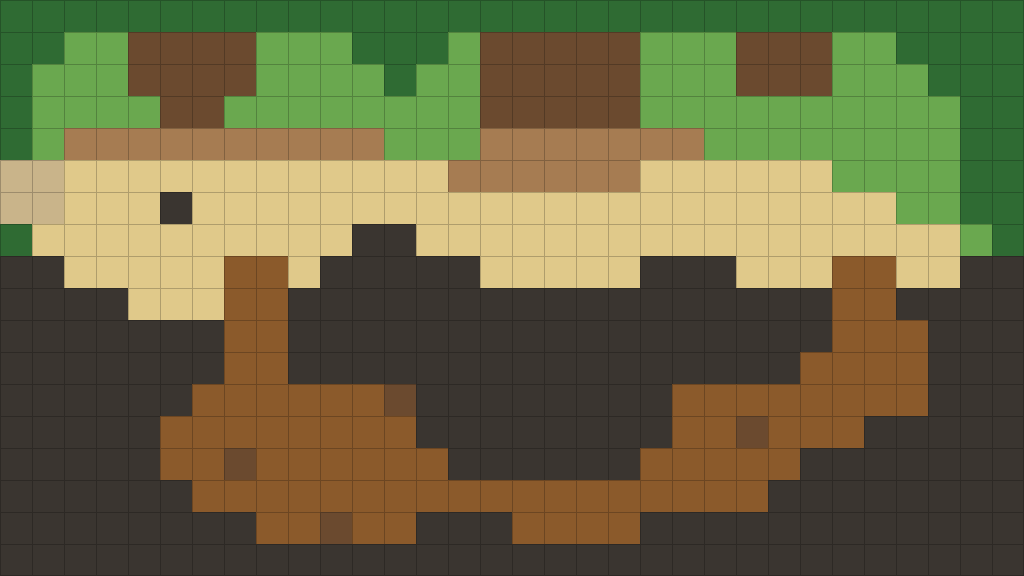
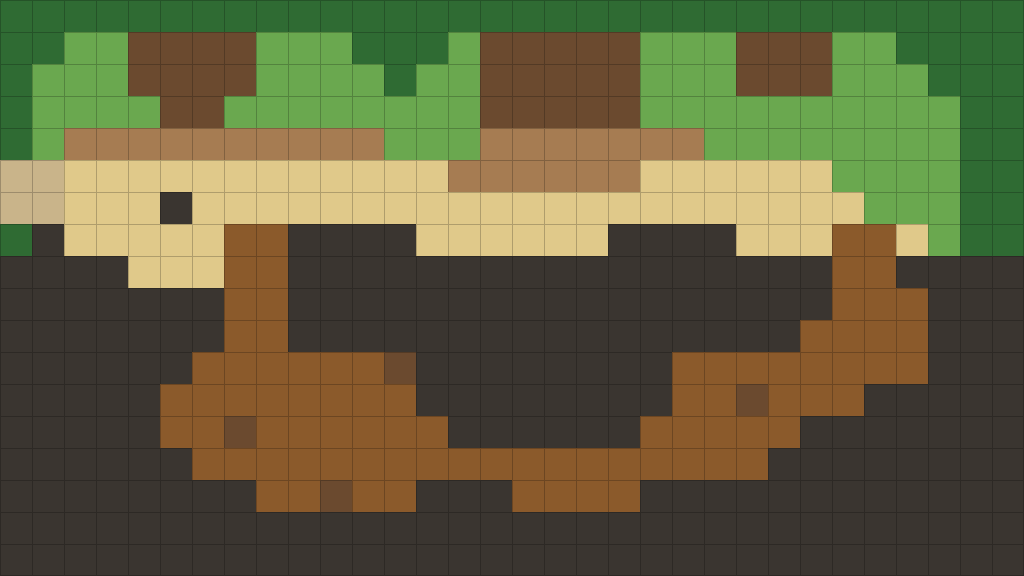
Saltstep market blockout v2: thinner quay, pole walk in the entry view, real view size in the guide
The quay is two rows deep, the pole walk roots at row 7 and an arrival shot
frames the first view lower. The guide's explore view is corrected to about
10 by 5 cells, measured at 1180 by 820.

Claude-Session: https://claude.ai/code/session_01QXJgHGK8M2MZwVwG7grNUT

diff --git a/src/content/regions/saltstepEmberwatch/maps.ts b/src/content/regions/saltstepEmberwatch/maps.ts
@@ -93,12 +93,12 @@ export const SALTSTEP_MARKET: MapDef = {
    * GREY BLOCKOUT (stage 3 of `docs/level-design.md`; the brief is `docs/places/saltstep_market.md`). The market is
    * out on the water. The town's backs run off the top edge (`U`), with three buildings of different sizes (`B`): an
    * L-shaped house to the west, Jin's freight office in the middle (x 15-19) and a small house to the east. A dirt
-   * shore lane (rows 4-5) runs under them. The sand quay (rows 5-8) takes the coast road in at its west end (rows
+   * shore lane (rows 4-5) runs under them. The sand quay (rows 5-6, two rows deep) takes the coast road in at its west end (rows
    * 5-6); the one blocked cell on it (`n`, 5,6) is the bowl stall's body, where the cart stops. The pole walk (x 7-8,
-   * rows 8-11) runs out to the west platform; the platforms ring a basin (x 13-20, rows 12-14) and the south walk
-   * (row 15) closes the loop, its cells at x 15-16 being the plank bridge the boats pass under. The east platform
+   * rows 7-10) runs out to the west platform; the platforms ring a basin (x 13-20, rows 11-13) and the south walk
+   * (row 14) closes the loop, its cells at x 15-16 being the plank bridge the boats pass under. The east platform
    * joins the ferry jetty (x 25-28) back to the shore. `k` cells are rack and stall bodies on the platforms, and the
-   * side jetty (x 16-19, row 16) looks out toward the freight pontoon. Every blocked cell comes from the brief's plan;
+   * side jetty (x 16-19, row 15) looks out toward the freight pontoon. Every blocked cell comes from the brief's plan;
    * none is there for scatter. The rim is walkable only at the coast road's mouth.
    */
   rows: [
@@ -108,9 +108,8 @@ export const SALTSTEP_MARKET: MapDef = {
     'U,,,,BB,,,,,,,,BBBBB,,,,,,,,,,UU',
     'U,..........,,,.......,,,,,,,,UU',
     '==::::::::::::......::::::,,,,UU',
-    '==:::n::::::::::::::::::::::,,UU',
-    'U::::::::::WW:::::::::::::::::,U',
-    'WW:::::ww:WWWWW:::::WWW:::ww::WW',
+    '==:::n:::::::::::::::::::::,,,UU',
+    'UW:::::wwWWWW::::::WWWW:::ww:,UU',
     'WWWW:::wwWWWWWWWWWWWWWWWWWwwWWWW',
     'WWWWWWWwwWWWWWWWWWWWWWWWWWwwwWWW',
     'WWWWWWWwwWWWWWWWWWWWWWWWWwwwwWWW',
@@ -119,6 +118,7 @@ export const SALTSTEP_MARKET: MapDef = {
     'WWWWWwwkwwwwwwWWWWWWwwwwwWWWWWWW',
     'WWWWWWwwwwwwwwwwwwwwwwwwWWWWWWWW',
     'WWWWWWWWwwkwwWWWwwwwWWWWWWWWWWWW',
+    'WWWWWWWWWWWWWWWWWWWWWWWWWWWWWWWW',
     'WWWWWWWWWWWWWWWWWWWWWWWWWWWWWWWW',
   ],
   // West of the coast-road crossing (column 3), so a fresh arrival still walks through it.
@@ -131,6 +131,14 @@ export const SALTSTEP_MARKET: MapDef = {
     { x: 2, y: 4 },
   ],
   objective: 'Stop at the bowl stall on the quay.',
+  // The first framing sits lower than the party, so the pole walk's root and the water beyond it are in the entry
+  // view (the brief's entry view; blockout v1 missed it). 4.5 rows keeps the normal explore zoom on an iPad.
+  arrivalShot: {
+    at: { x: 1, y: 5 },
+    unlessVisited: 'mq02_saltstep_arrival',
+    rows: 4.5,
+    centreY: 6.6,
+  },
   props: [],
   exits: [
     {
@@ -154,7 +162,7 @@ export const SALTSTEP_MARKET: MapDef = {
       when: { kind: 'not', of: ARRIVED },
       once: true,
       // The whole walkable column, so no route east from the coast road slips past it.
-      area: [1, 2, 3, 4, 5, 6, 7, 8].map((y) => ({ x: 3, y })),
+      area: [1, 2, 3, 4, 5, 6, 7].map((y) => ({ x: 3, y })),
     },
   ],
   npcs: [
@@ -173,7 +181,7 @@ export const SALTSTEP_MARKET: MapDef = {
     {
       id: 'mq02_tavi',
       name: 'Tavi Ren',
-      pos: { x: 27, y: 10 },
+      pos: { x: 27, y: 9 },
       sprite: SPRITE.tavi,
       node: 'mq02_tavi',
       // Scene 2.9: once the complaint has started, the ferry goes.
@@ -194,7 +202,7 @@ export const SALTSTEP_MARKET: MapDef = {
     {
       id: 'mq02_miri_crates',
       name: 'Lantern crates',
-      pos: { x: 25, y: 11 },
+      pos: { x: 25, y: 10 },
       sprite: SPRITE.crates,
       node: 'mq02_miri_crates',
       // Kaya's opening (the slice's first exchange only): the crates are her sister's shop's.
@@ -205,7 +213,7 @@ export const SALTSTEP_MARKET: MapDef = {
       // needs it). Afterwards the clerk is busy with the packet, and the stall is not shown.
       id: 'mq02_customs_clerk',
       name: 'Customs clerk',
-      pos: { x: 12, y: 13 },
+      pos: { x: 12, y: 12 },
       sprite: SPRITE.customsClerk,
       node: 'mq02_stall_drifts',
       when: {

diff --git a/docs/art/prompts/maps/saltstep_market.md b/docs/art/prompts/maps/saltstep_market.md
@@ -19,12 +19,12 @@ Saltstep, a market town built out over a grey bay.
 32 columns by 18 rows, counted from 0 at the top-left corner. The painting is the ground and what stands on it, nothing else: the game draws its own grid, movement contours, units, props and effects over it, so every edge in the painting that matters to the rules sits exactly on a tile edge.
 
 - Road (4 tiles): a 2×2 block at columns 0–1, rows 5–6 (middle left).
-- Trees (58 tiles): 57 tiles (top centre), row 0: columns 0–31; row 1: columns 0–1, 11–13 and 28–31; row 2: columns 0, 12 and 29–31; rows 3–4: columns 0 and 30–31; rows 5–6: columns 30–31; row 7: column 31; one tile at column 0, row 7 (middle left).
-- Timber walls (35 tiles): a 5×3 block at columns 15–19, rows 1–3 (top centre); 10 tiles (top left), rows 1–2: columns 4–7; row 3: columns 5–6; a 3×2 block at columns 23–25, rows 1–2 (top right); one tile at column 12, row 12 (bottom centre); one tile at column 23, row 13 (bottom right); one tile at column 7, row 14 (bottom left); one tile at column 10, row 16 (bottom left).
-- Stone walls (215 tiles): 132 tiles (bottom centre), row 8: columns 0–1 and 30–31; row 9: columns 0–3 and 28–31; rows 10–11: columns 0–6 and 29–31; row 12: columns 0–5 and 29–31; row 13: columns 0–4 and 27–31; row 14: columns 0–4 and 25–31; row 15: columns 0–5 and 24–31; row 16: columns 0–7, 13–15 and 20–31; row 17: columns 0–31; 82 tiles (the centre), row 7: columns 11–12; row 8: columns 10–14 and 20–22; rows 9–10: columns 9–25; row 11: columns 9–24; rows 12–13: columns 13–20; row 14: columns 14–19; one tile at column 5, row 6 (middle left).
-- Sand (89 tiles): 89 tiles (the centre), row 5: columns 2–13 and 20–25; row 6: columns 2–4 and 6–27; row 7: columns 1–10 and 13–29; row 8: columns 2–6, 9, 15–19, 23–25 and 28–29; row 9: columns 4–6.
-- Plank floors (85 tiles): 85 tiles (bottom centre), rows 8–9: columns 7–8 and 26–27; row 10: columns 7–8 and 26–28; row 11: columns 7–8 and 25–28; row 12: columns 6–11 and 21–28; row 13: columns 5–12, 21–22 and 24–26; row 14: columns 5–6, 8–13 and 20–24; row 15: columns 6–23; row 16: columns 8–9, 11–12 and 16–19.
-- Open ground everywhere else: grass (67 tiles), bare earth (23 tiles).
+- Trees (59 tiles): 58 tiles (top centre), row 0: columns 0–31; row 1: columns 0–1, 11–13 and 28–31; row 2: columns 0, 12 and 29–31; rows 3–4: columns 0 and 30–31; rows 5–7: columns 30–31; one tile at column 0, row 7 (middle left).
+- Timber walls (35 tiles): a 5×3 block at columns 15–19, rows 1–3 (top centre); 10 tiles (top left), rows 1–2: columns 4–7; row 3: columns 5–6; a 3×2 block at columns 23–25, rows 1–2 (top right); one tile at column 12, row 11 (the centre); one tile at column 23, row 12 (bottom right); one tile at column 7, row 13 (bottom left); one tile at column 10, row 15 (bottom left).
+- Stone walls (242 tiles): 161 tiles (bottom centre), row 7: column 1; row 8: columns 0–3 and 28–31; rows 9–10: columns 0–6 and 29–31; row 11: columns 0–5 and 29–31; row 12: columns 0–4 and 27–31; row 13: columns 0–4 and 25–31; row 14: columns 0–5 and 24–31; row 15: columns 0–7, 13–15 and 20–31; rows 16–17: columns 0–31; 80 tiles (the centre), row 7: columns 9–12 and 19–22; rows 8–9: columns 9–25; row 10: columns 9–24; rows 11–12: columns 13–20; row 13: columns 14–19; one tile at column 5, row 6 (middle left).
+- Sand (60 tiles): 59 tiles (the centre), row 5: columns 2–13 and 20–25; row 6: columns 2–4 and 6–26; row 7: columns 2–6, 13–18 and 23–25; row 8: columns 4–6; one tile at column 28, row 7 (middle right).
+- Plank floors (85 tiles): 85 tiles (the centre), rows 7–8: columns 7–8 and 26–27; row 9: columns 7–8 and 26–28; row 10: columns 7–8 and 25–28; row 11: columns 6–11 and 21–28; row 12: columns 5–12, 21–22 and 24–26; row 13: columns 5–6, 8–13 and 20–24; row 14: columns 6–23; row 15: columns 8–9, 11–12 and 16–19.
+- Open ground everywhere else: grass (68 tiles), bare earth (23 tiles).
 - The party enters from the left, standing at (1, 5), (1, 6), (2, 5), (2, 6), (1, 4), (2, 4); enemies come from the right. Paint nothing there that would read as an object to walk round.
 
 The rows as the rules read them:
@@ -36,9 +36,8 @@ U,,,BBBB,,,,U,,BBBBB,,,BBB,,,UUU
 U,,,,BB,,,,,,,,BBBBB,,,,,,,,,,UU
 U,..........,,,.......,,,,,,,,UU
 ==::::::::::::......::::::,,,,UU
-==:::n::::::::::::::::::::::,,UU
-U::::::::::WW:::::::::::::::::,U
-WW:::::ww:WWWWW:::::WWW:::ww::WW
+==:::n:::::::::::::::::::::,,,UU
+UW:::::wwWWWW::::::WWWW:::ww:,UU
 WWWW:::wwWWWWWWWWWWWWWWWWWwwWWWW
 WWWWWWWwwWWWWWWWWWWWWWWWWWwwwWWW
 WWWWWWWwwWWWWWWWWWWWWWWWWwwwwWWW
@@ -47,6 +46,7 @@ WWWWWwwwwwwwwWWWWWWWWwwkwwwWWWWW
 WWWWWwwkwwwwwwWWWWWWwwwwwWWWWWWW
 WWWWWWwwwwwwwwwwwwwwwwwwWWWWWWWW
 WWWWWWWWwwkwwWWWwwwwWWWWWWWWWWWW
+WWWWWWWWWWWWWWWWWWWWWWWWWWWWWWWW
 WWWWWWWWWWWWWWWWWWWWWWWWWWWWWWWW
 ```
 

diff --git a/docs/level-design.md b/docs/level-design.md
@@ -52,21 +52,22 @@ answer for later states on a baked board.
 | Character                    | 48 px canvas, 8 directions                                                         |
 | Terrain                      | 32 px Wang tiles, per-pixel edges                                                  |
 | Explore zoom                 | 120 CSS px a cell (80 on a viewport under 540 px wide), snapped to integer zoom    |
-| **One explore view (iPad)**  | about 8.5 to 11.5 cells wide by 6.5 to 8.5 high, before the header and dock        |
+| **One explore view (iPad)**  | about 10 cells wide by 5 high once the header, objective box and dock are counted  |
 | Combat zoom                  | 80 CSS px a cell: about 13 to 17 by 10 to 13 cells, so a 20x12 board scrolls a bit |
 | Map size allowed             | 4 to 64 cells a side                                                               |
 | Today's maps                 | explore 24x16 (the riverside 36x24); combat 20x12 or 19x12                         |
 | Light                        | upper left; shadow `#322125`; cast to the lower right, 12 to 24 px                 |
 | Per-region limits (ADR 0111) | boards 1.5 MiB, JS chunk 40 KB gz; size budgets may be raised with an ADR note     |
 
-**Use 10 by 7 cells as "one view"** for every rule in the core that says "per view". A 24x16 map is therefore
-about five views, and each needs its own idea and landmark.
+**Use 10 by 5 cells as "one view"** for every rule in the core that says "per view". A 24x16 map is therefore
+about seven to eight views, and a 32x18 map about eleven; each needs its own idea and landmark.
 
-The view size is computed from `exploreTilePx` (`src/render/projection.ts`) and typical iPad viewports; it is not
-yet written down or tested anywhere. Measure it on the device before relying on it.
+Measured on the Saltstep blockout (2026-11-17) at an iPad landscape viewport of 1180 by 820: the map shows about
+10 by 4.7 cells. The HUD takes about a third of the screen height, so vertical composition is tight: lay out
+routes mostly east-west, or revisit the explore zoom (an owner question). No test holds this number yet.
 
 **Going bigger.** The owner is fine with bigger places. Do it by adding views that each have an idea (core L16,
-L17), not by stretching a plan. A town of six to nine views (about 30x21 to 40x28) is a reasonable step. Past
+L17), not by stretching a plan. A town of ten to sixteen views (about 30x18 to 40x20) is a reasonable step. Past
 that, split into districts joined by a pinch point (a gate, a bridge, a stair) or into two maps. Before growing a
 board: run the perf bench (`scripts/perf/core-bench.test.ts`, pinned to the largest board), check the region's
 board budget, and remember the local map (`LocalMapDialog`) is opened by a button, so orientation must come from
@@ -256,8 +257,8 @@ from what the owner likes, then turn them into failing tests. Changes to the map
 | 4   | `anchored`         | Share of standing objects within one cell of a blocked cell, a rim, or a member of their set piece (default 80%) | Validator 3                                        |
 | 5   | `looseSingles`     | No standing object without a neighbour within two cells unless marked as a marker                                | A `marker` flag                                    |
 | 6   | `desireLinesClear` | No object footprint or solid cell on a named track; every door, anchor, slot and exit touches the track network  | Named tracks in every terrain classifier           |
-| 7   | `restingGround`    | In every 10x7 window, the share of walkable cells with nothing on them is in range (default 60 to 80%)           | Nothing new                                        |
-| 8   | `landmarkPerView`  | Every 10x7 window holds a piece marked as a landmark; each landmark sprite is used once per map                  | A `landmark` flag                                  |
+| 7   | `restingGround`    | In every 10x5 window, the share of walkable cells with nothing on them is in range (default 60 to 80%)           | Nothing new                                        |
+| 8   | `landmarkPerView`  | Every 10x5 window holds a piece marked as a landmark; each landmark sprite is used once per map                  | A `landmark` flag                                  |
 | 9   | `footprintRhythm`  | No two buildings share both size and row; no three at equal spacing; no straight rim run over two cells          | Nothing new                                        |
 | 10  | `aprons`           | Every anchor has changed ground under it                                                                         | Aprons as data in the layout, baked by one routine |
 | 11  | `scaleChart`       | Each object's opaque height is inside the chart's range for its class                                            | A class per object; the measured chart             |

diff --git a/docs/places/saltstep_market.md b/docs/places/saltstep_market.md
@@ -6,7 +6,7 @@ rows, people and exits are moved; there is no ground art or dressing yet, so the
 **Owner (2026-11-17):** the open questions are delegated; plan 2, 32 by 18, rise and fall told not shown, no new
 track for now.
 
-`blockout: 3937a652ac8fb71f5ad9f1e1baf8a10983ecc3e7aace8d3c84e7d27d670a3b36` (sha256 of the rows joined by newlines)
+`blockout: 07c50f3b5b6a9c284b7ce18328ae32471aaf66f988032fc5fc542c68bfc51790` (sha256 of the rows joined by newlines)
 
 **One line:** a market that floats: you walk out over the water on planks to buy your lunch, and the shops move
 with the tide.
@@ -126,7 +126,8 @@ happen across the basin instead of something you are told.
   arrival view down the pole walk, and from every platform.
 - **Entry view:** the coast road levels out; the bowl stall and the cart stop are in front; past them the pole
   walk runs out to the bright poles and the flag. One living thing: the bowl-seller.
-- **Views** (10 by 7 cells each) and their one idea:
+- **Views** (about 10 by 5 cells each on an iPad; six named ideas across about eleven screens, the rest being
+  open water kept quiet on purpose) and their one idea:
   1. _Arrival:_ the road becomes a town.
   2. _The bowl stall:_ sit down, here is the custom.
   3. _The shore lane:_ the half-shut office with the brass plate.
@@ -146,8 +147,9 @@ happen across the basin instead of something you are told.
   an uneven ring, not a grid of squares.
 - **Exits:** the coast road mouth (west) keeps all three cues. The ferry is a story exit at the landing: the ramp
   and the post make it read as a way out before the story opens it.
-- **Size:** six views, about **32 by 18** cells, up from 24 by 16. That would make it the largest top-down board,
-  so the perf bench needs a new measurement (ADR 0106) and the region's board budget needs checking.
+- **Size:** **32 by 18** cells, up from 24 by 16: about eleven screens at the real view size, six of them named
+  views. When its board is baked it will be the largest top-down board alone, so the perf bench needs new frozen
+  limits (ADR 0106) and the region's board budget needs checking.
 
 ## Look and sound
 
@@ -196,6 +198,17 @@ Pieces marked _have_ are in the art merged with #844; the rest are for the kit l
 - **Walkable water.** Platforms and planks are wood cells; the basin is deep water. Boats are scenery on water.
 - **Blocked cells come from this plan only:** buildings, stall bodies, racks, posts, boats. No scatter cells. The
   `n` and `u` cells on today's quay go.
+
+## Blockout v1 findings (2026-11-17)
+
+- **The entry view missed the pole walk.** It showed the bowl stall and a house; the walk started at row 8, off the
+  bottom of the screen.
+- **The quay was too deep.** Four rows of sand across the whole width still read as the main place.
+- **The real view is about 10 by 4.7 cells,** not 10 by 7: the header, objective box and dock take about a third of
+  the screen height.
+
+Blockout v2 thins the quay to two rows, roots the pole walk at row 7, moves everything below up one row, and adds
+an arrival shot that frames the first view lower. The board stays 32 by 18; the two bottom rows are open water.
 
 ## What the blockout review should ask
 
